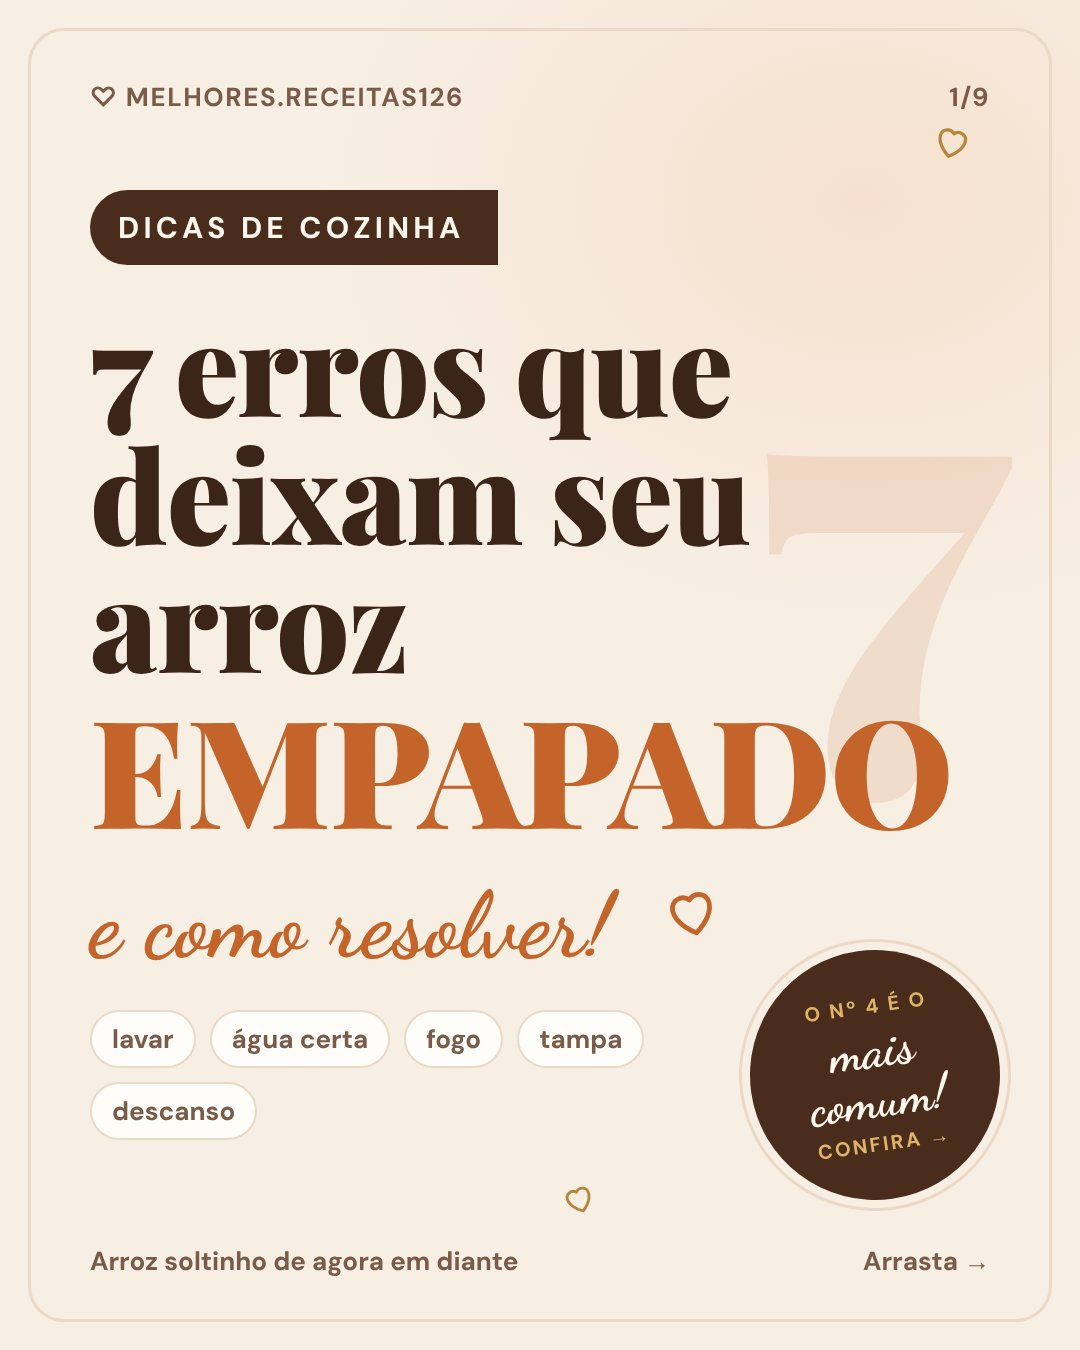
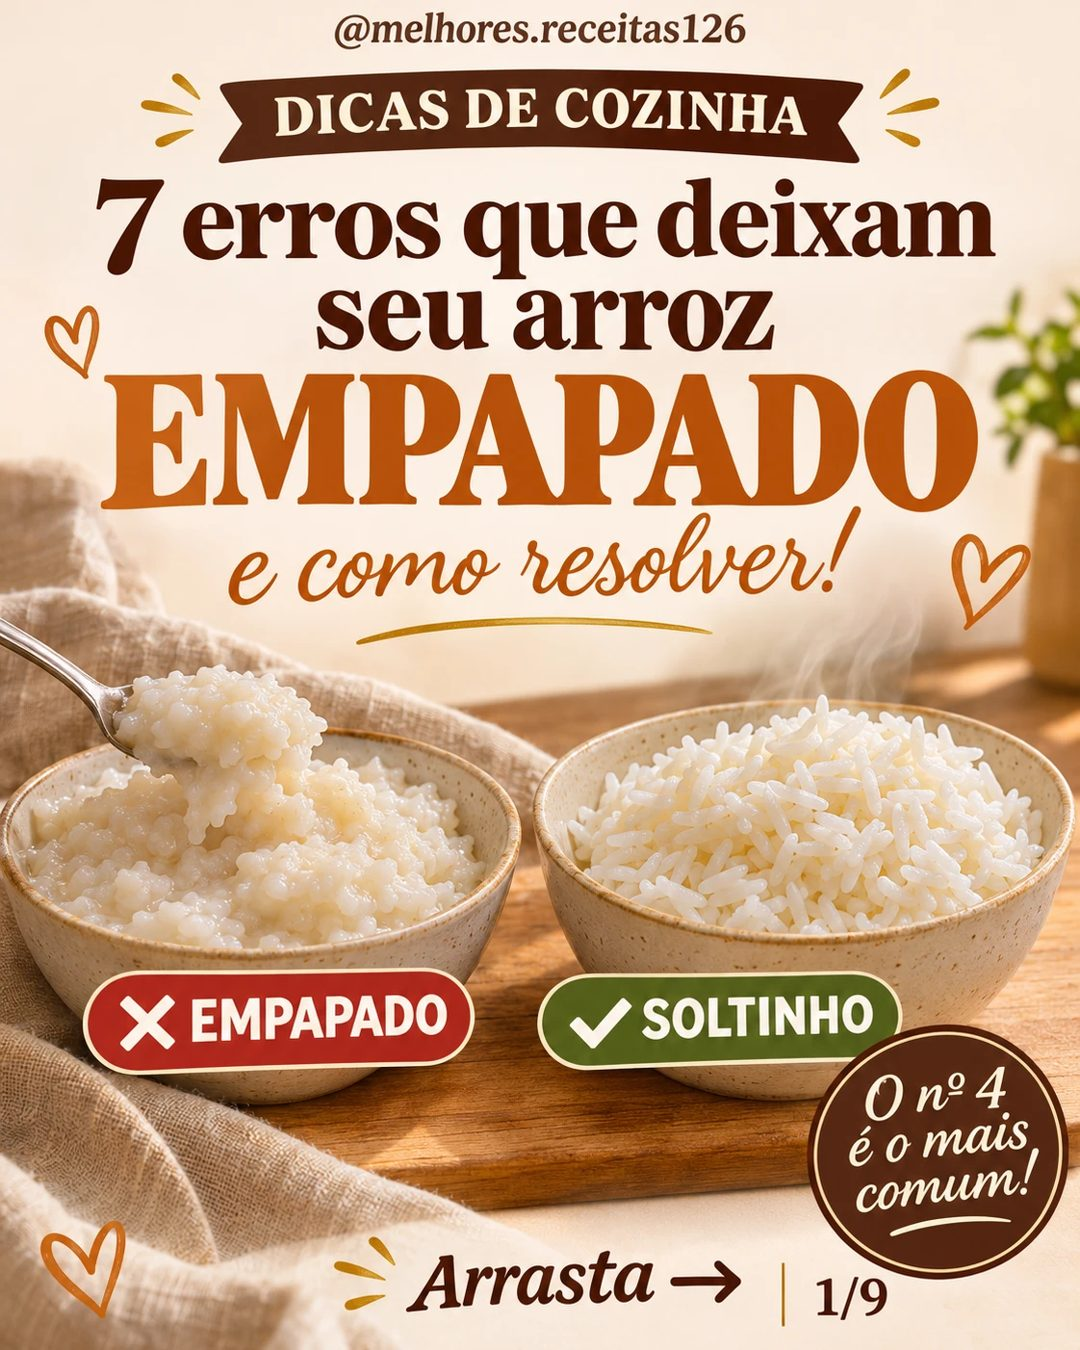
Arroz soltinho: imagens do carrossel na página (capa, erros 1, 3 e 4, resultado)
Claude-Session: https://claude.ai/code/session_015SuBtCFSLehgc1j6xPgyhj

diff --git a/receitas/arroz-soltinho-7-erros.html b/receitas/arroz-soltinho-7-erros.html
@@ -97,7 +97,7 @@
       <a class="btn ghost" href="https://www.instagram.com/melhores.receitas126/" rel="noopener">Ver no Instagram</a>
     </div>
   </div>
-  <div class="hero-card frame-wrap"><div class="frame"><img class="photo" src="../img/arroz-soltinho/capa.jpg" alt="Capa com o título 7 erros que deixam seu arroz empapado e como resolver" loading="lazy"></div></div>
+  <div class="hero-card frame-wrap"><div class="frame"><img class="photo" src="../img/arroz-soltinho/capa.jpg" alt="Duas tigelas lado a lado: arroz empapado e grudento à esquerda e arroz soltinho à direita, com o título 7 erros que deixam seu arroz empapado" loading="lazy"></div></div>
 </section>
 <section class="recipe-body">
   <div><div class="panel sticky">
@@ -114,7 +114,7 @@
   <div style="display:grid;gap:22px;align-content:start">
     <span class="ribbon">Sobre a receita</span>
     <p class="intro">Arroz empapado quase sempre tem a ver com amido em excesso, água demais ou mexida na hora errada. A boa notícia é que dá para acertar sempre com poucos cuidados. Abaixo estão os 7 erros mais comuns, com a solução de cada um, e a receita básica de arroz branco soltinho para você testar hoje mesmo.</p>
-    <span class="ribbon">Os 7 erros que deixam o arroz empapado</span><ol class="erros"><li><h3>Não lavar o arroz</h3><p>Lave em água corrente até a água sair quase transparente. Isso tira o excesso de amido, o principal responsável pelo arroz grudento.</p></li><li><h3>Colocar água demais</h3><p>Para arroz branco agulhinha, comece com 2 xícaras de água para 1 de arroz e ajuste conforme a sua panela e o seu fogão.</p></li><li><h3>Usar água fria</h3><p>Depois de refogar, coloque água fervendo. O cozimento fica mais uniforme e os grãos cozinham por igual.</p></li><li><h3>Mexer durante o cozimento</h3><p>É o erro mais comum. Mexer solta amido e quebra os grãos. Depois que a água entrou, não mexa mais.</p></li><li><h3>Deixar em fogo alto até o fim</h3><p>Assim que ferver, abaixe para o fogo mínimo e deixe a panela entreaberta até a água secar.</p></li><li><h3>Abrir a panela toda hora</h3><p>O vapor faz parte do cozimento. Cada vez que você abre, ele escapa. Espie só no final.</p></li><li><h3>Servir assim que desliga</h3><p>Deixe a panela tampada por 5 minutos depois de desligar. Os grãos terminam de cozinhar no vapor e ficam soltinhos.</p></li></ol>
+    <span class="ribbon">Os 7 erros que deixam o arroz empapado</span><ol class="erros"><li class="com-foto"><div><h3>Não lavar o arroz</h3><p>Lave em água corrente até a água sair quase transparente. Isso tira o excesso de amido, o principal responsável pelo arroz grudento.</p></div><img src="../img/arroz-soltinho/erro-1.jpg" alt="Arroz cru na peneira sendo lavado em água corrente" loading="lazy"></li><li><h3>Colocar água demais</h3><p>Para arroz branco agulhinha, comece com 2 xícaras de água para 1 de arroz e ajuste conforme a sua panela e o seu fogão.</p></li><li class="com-foto"><div><h3>Usar água fria</h3><p>Depois de refogar, coloque água fervendo. O cozimento fica mais uniforme e os grãos cozinham por igual.</p></div><img src="../img/arroz-soltinho/erro-3.jpg" alt="Água fervendo sendo despejada da chaleira na panela com arroz refogado" loading="lazy"></li><li class="com-foto"><div><h3>Mexer durante o cozimento</h3><p>É o erro mais comum. Mexer solta amido e quebra os grãos. Depois que a água entrou, não mexa mais.</p></div><img src="../img/arroz-soltinho/erro-4.jpg" alt="Colher de pau mexendo arroz na panela, com um X por cima indicando o erro" loading="lazy"></li><li><h3>Deixar em fogo alto até o fim</h3><p>Assim que ferver, abaixe para o fogo mínimo e deixe a panela entreaberta até a água secar.</p></li><li><h3>Abrir a panela toda hora</h3><p>O vapor faz parte do cozimento. Cada vez que você abre, ele escapa. Espie só no final.</p></li><li><h3>Servir assim que desliga</h3><p>Deixe a panela tampada por 5 minutos depois de desligar. Os grãos terminam de cozinhar no vapor e ficam soltinhos.</p></li></ol>
     <span class="ribbon">Modo de preparo</span>
     <ol class="steps">
 <li><span>Lave o arroz em água corrente até a água sair quase transparente e escorra bem.</span></li>
@@ -124,7 +124,7 @@
 <li><span>Abaixe para o fogo mínimo, deixe a tampa entreaberta e cozinhe sem mexer até a água secar (cerca de 15 minutos).</span></li>
 <li><span>Desligue o fogo, tampe e deixe descansar por 5 minutos. Solte os grãos com um garfo e sirva.</span></li>
     </ol>
-    
+    <span class="ribbon">Resultado</span><div class="gallery"><figure><img src="../img/arroz-soltinho/final.jpg" alt="Prato com arroz branco soltinho e feijão, com dicas para salvar e compartilhar" loading="lazy"><figcaption>Arroz soltinho de agora em diante!</figcaption></figure></div>
     <div class="tip"><span class="script">Dica:</span>A medida de 2 xícaras de água para 1 de arroz é um ponto de partida. Se o seu arroz ainda sair úmido, use um pouco menos de água na próxima vez.</div>
     <p class="note">Publicada em 12 de novembro de 2026 · Tempo total: 25 min · Imagem ilustrativa criada com IA.</p>
   </div>

diff --git a/index.html b/index.html
@@ -33,7 +33,7 @@
     <p>Receitas caseiras, práticas e testadas para o dia a dia. Ingredientes de mercado, medidas certinhas e passo a passo sem complicação.</p>
     <div class="ctas"><a class="btn" href="receitas/arroz-soltinho-7-erros.html">Receita da semana</a><a class="btn dark" href="https://www.instagram.com/melhores.receitas126/" rel="noopener">Seguir no Instagram</a></div>
   </div>
-  <div class="hero-card"><div class="frame"><img class="photo" src="img/arroz-soltinho/capa.jpg" alt="Capa com o título 7 erros que deixam seu arroz empapado e como resolver" loading="lazy"></div><div class="stamp"><span><small>Receita da semana</small>Simples, caseira e gostosa!</span></div></div>
+  <div class="hero-card"><div class="frame"><img class="photo" src="img/arroz-soltinho/capa.jpg" alt="Duas tigelas lado a lado: arroz empapado e grudento à esquerda e arroz soltinho à direita, com o título 7 erros que deixam seu arroz empapado" loading="lazy"></div><div class="stamp"><span><small>Receita da semana</small>Simples, caseira e gostosa!</span></div></div>
 </div></section>
 <main>
 <section class="section container" id="receitas">
@@ -49,7 +49,7 @@
   </div>
   <div class="grid" id="lista">
 <a class="card" href="receitas/arroz-soltinho-7-erros.html" data-cat="Dicas de cozinha" data-busca="arroz soltinho: os 7 erros que deixam o arroz empapado dicas de cozinha arroz soltinho como fazer arroz arroz empapado arroz branco dicas de cozinha arroz agulhinha 1 xícara de arroz branco agulhinha 2 xícaras de água fervendo 1 colher (sopa) de óleo 1 dente de alho picado 1 colher (chá) de sal">
-  <img class="photo" src="img/arroz-soltinho/capa.jpg" alt="Capa com o título 7 erros que deixam seu arroz empapado e como resolver" loading="lazy">
+  <img class="photo" src="img/arroz-soltinho/capa.jpg" alt="Duas tigelas lado a lado: arroz empapado e grudento à esquerda e arroz soltinho à direita, com o título 7 erros que deixam seu arroz empapado" loading="lazy">
   <div class="body">
     <span class="eyebrow">Dicas de cozinha</span>
     <h3>Arroz soltinho: os 7 erros que deixam o arroz empapado</h3>

diff --git a/assets/style.css b/assets/style.css
@@ -142,6 +142,10 @@ h1,h2,h3{font-family:var(--serif);line-height:1.08;text-wrap:balance;margin:0;co
 .erros li::before{content:counter(erro);position:absolute;left:16px;top:16px;width:34px;height:34px;border-radius:50%;background:var(--choc);color:var(--choc-ink);display:grid;place-items:center;font:700 16px var(--serif)}
 .erros h3{font-size:20px;margin-bottom:4px}
 .erros p{margin:0;color:var(--muted);font-size:16px}
+.erros li.com-foto{display:grid;grid-template-columns:1fr 150px;gap:16px;align-items:center}
+.erros li.com-foto > *{min-width:0}
+.erros li.com-foto img{width:150px;aspect-ratio:4/5;object-fit:cover;border-radius:12px;border:1px solid var(--line)}
+@media (max-width:520px){.erros li.com-foto{grid-template-columns:1fr}.erros li.com-foto img{width:100%;max-width:320px}}
 .gallery{display:grid;grid-template-columns:repeat(2,minmax(0,1fr));gap:14px}
 .gallery figure{margin:0;display:grid;gap:8px}
 .gallery img{width:100%;aspect-ratio:3/4;object-fit:cover;border-radius:16px;border:1px solid var(--line)}
